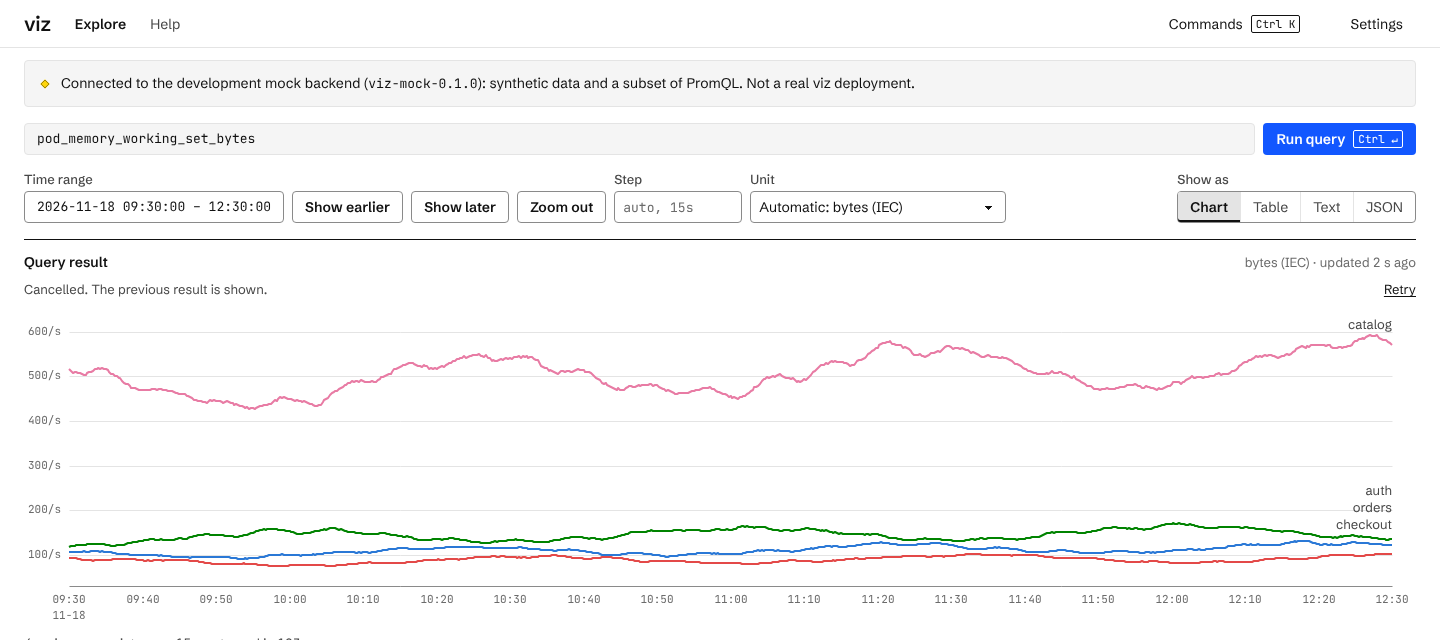
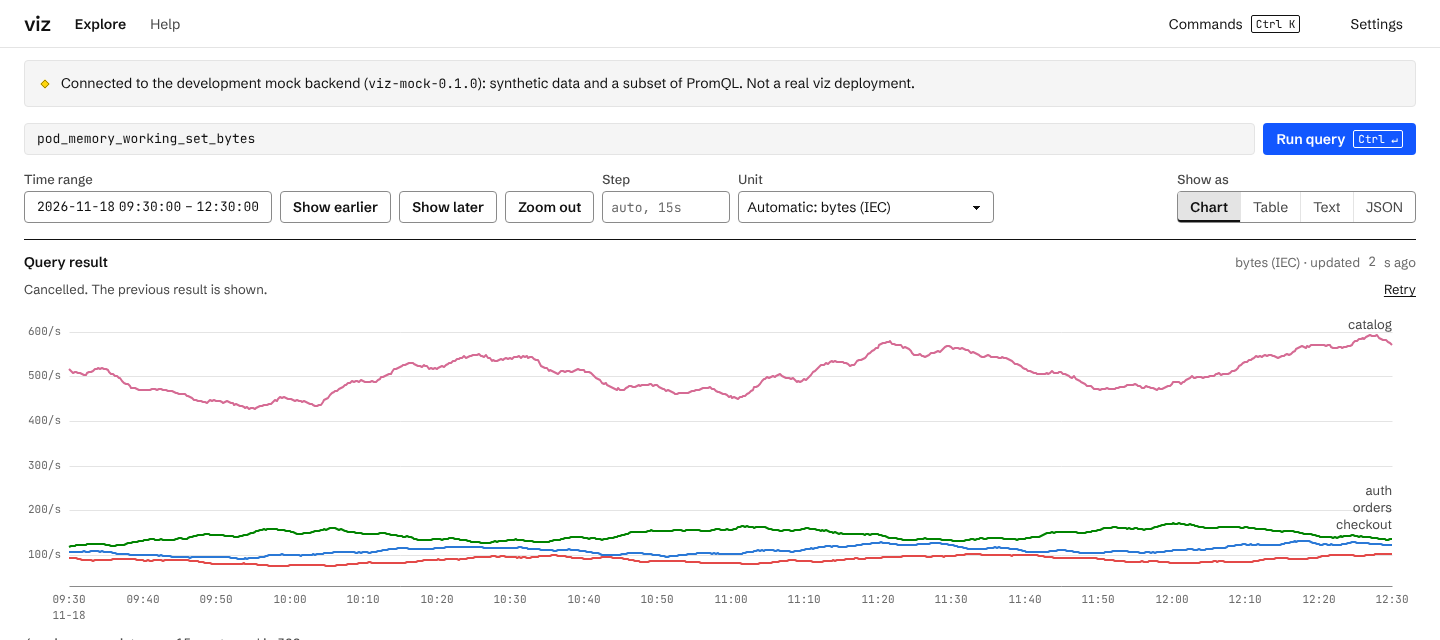
Work in progress: flow screen captures
Claude-Session: https://claude.ai/code/session_01RZ69u9Kp3btpZA6eGNXBKA

Changed region(s): [[0.0625, 0.2812, 0.4688, 0.3438], [0.5, 0.2812, 0.625, 0.3438], [0.8438, 0.4062, 0.9688, 0.4375]]

diff --git a/control/src/tenant.ts b/control/src/tenant.ts
@@ -1,7 +1,8 @@
 import { DurableObject } from 'cloudflare:workers'
 import { TENANT_ID } from '../../contracts/ledger'
+import { openSchema, refusalOf, type SchemaState, type SchemaTooNew, SchemaTooNewError } from '../../contracts/schema'
 import { type Caps, capsFrom } from './caps'
-import { Problem } from './errors'
+import { Problem, schemaProblem } from './errors'
 import type { Actor, Identity } from './identity'
 import { auditOps } from './ops-audit'
 import { dashboardOps } from './ops-dashboards'
@@ -10,6 +11,7 @@ import { keyOps, newKey, purgeStaleSecrets } from './ops-keys'
 import { purgeDashboards } from './ops-dashboards'
 import { settingsOps } from './ops-settings'
 import { type OpInput, type OpName, type OpResult, routeOf } from './routes'
+import { TENANT_SCHEMA } from './schema'
 import { randomId } from './util'
 
 export interface TenantEnv {
@@ -45,52 +47,6 @@ class Rollback extends Error {
 /** A mutation that turned out to change nothing: no revision, no audit row. */
 export class NoChange extends Rollback {}
 
-const SCHEMA = `
-CREATE TABLE IF NOT EXISTS tenant_meta (tenant TEXT NOT NULL, k TEXT NOT NULL, v TEXT NOT NULL, PRIMARY KEY (tenant, k));
-CREATE TABLE IF NOT EXISTS keys (
-  tenant TEXT NOT NULL, id TEXT NOT NULL, name TEXT NOT NULL, kind TEXT NOT NULL, scopes TEXT NOT NULL,
-  key_id TEXT NOT NULL, created_at INTEGER NOT NULL, created_by TEXT NOT NULL, expires_at INTEGER,
-  disabled INTEGER NOT NULL DEFAULT 0, rotated_at INTEGER, last_used_at INTEGER,
-  PRIMARY KEY (tenant, id));
-CREATE UNIQUE INDEX IF NOT EXISTS keys_name ON keys (tenant, name);
-CREATE TABLE IF NOT EXISTS key_secrets (
-  tenant TEXT NOT NULL, key_id TEXT NOT NULL, key TEXT NOT NULL, secret_sha256 TEXT NOT NULL, valid_until INTEGER,
-  PRIMARY KEY (tenant, key_id));
-CREATE TABLE IF NOT EXISTS key_usage (
-  tenant TEXT NOT NULL, key TEXT NOT NULL, hour INTEGER NOT NULL, samples INTEGER NOT NULL,
-  PRIMARY KEY (tenant, key, hour));
-CREATE TABLE IF NOT EXISTS dashboards (
-  tenant TEXT NOT NULL, id TEXT NOT NULL, head INTEGER NOT NULL, revision TEXT NOT NULL,
-  title TEXT NOT NULL, intent TEXT NOT NULL, tags TEXT NOT NULL, owner TEXT, panel_count INTEGER NOT NULL,
-  created_at INTEGER NOT NULL, created_by TEXT NOT NULL, updated_at INTEGER NOT NULL, updated_by TEXT NOT NULL,
-  deleted_at INTEGER, deleted_by TEXT, purge_at INTEGER,
-  PRIMARY KEY (tenant, id));
-CREATE TABLE IF NOT EXISTS revisions (
-  tenant TEXT NOT NULL, dashboard TEXT NOT NULL, number INTEGER NOT NULL, revision TEXT NOT NULL,
-  spec TEXT NOT NULL, bytes INTEGER NOT NULL, at INTEGER NOT NULL, by TEXT NOT NULL, message TEXT NOT NULL,
-  kind TEXT NOT NULL, summary TEXT NOT NULL, proposal TEXT, proposed_by TEXT, reverted_to INTEGER,
-  PRIMARY KEY (tenant, dashboard, number));
-CREATE TABLE IF NOT EXISTS proposals (
-  tenant TEXT NOT NULL, id TEXT NOT NULL, dashboard TEXT NOT NULL, base_revision TEXT NOT NULL, base_number INTEGER NOT NULL,
-  message TEXT NOT NULL, changes TEXT NOT NULL, status TEXT NOT NULL, created_at INTEGER NOT NULL, by TEXT NOT NULL,
-  editors TEXT NOT NULL, expires_at INTEGER NOT NULL, resolved_at INTEGER, resolved_by TEXT, reason TEXT,
-  applied_number INTEGER, applied_changes TEXT, bytes INTEGER NOT NULL,
-  PRIMARY KEY (tenant, id));
-CREATE INDEX IF NOT EXISTS proposals_open ON proposals (tenant, status, expires_at);
-CREATE TABLE IF NOT EXISTS settings (
-  tenant TEXT NOT NULL, section TEXT NOT NULL, version INTEGER NOT NULL, value TEXT NOT NULL,
-  updated_at INTEGER NOT NULL, updated_by TEXT NOT NULL,
-  PRIMARY KEY (tenant, section));
-CREATE TABLE IF NOT EXISTS audit (
-  seq INTEGER PRIMARY KEY AUTOINCREMENT, tenant TEXT NOT NULL, id TEXT NOT NULL UNIQUE, at INTEGER NOT NULL,
-  subject TEXT NOT NULL, kind TEXT NOT NULL, name TEXT, action TEXT NOT NULL,
-  target_type TEXT NOT NULL, target_id TEXT NOT NULL, before TEXT, after TEXT);
-CREATE TABLE IF NOT EXISTS outbox (
-  seq INTEGER PRIMARY KEY AUTOINCREMENT, tenant TEXT NOT NULL, kv_key TEXT NOT NULL, value TEXT, expiration INTEGER,
-  created_at INTEGER NOT NULL);
-CREATE TRIGGER IF NOT EXISTS audit_no_update BEFORE UPDATE ON audit BEGIN SELECT RAISE(ABORT, 'the audit log is append-only'); END;
-CREATE TRIGGER IF NOT EXISTS audit_no_delete BEFORE DELETE ON audit BEGIN SELECT RAISE(ABORT, 'the audit log is append-only'); END;
-`
 
 const OPS: Record<OpName, Op> = {
   whoami: (_t, c) => ({ status: 200, body: { tenant: c.id.tenant, subject: c.id.subject, kind: c.id.kind, name: c.id.name ?? null, scopes: c.id.scopes } }),
